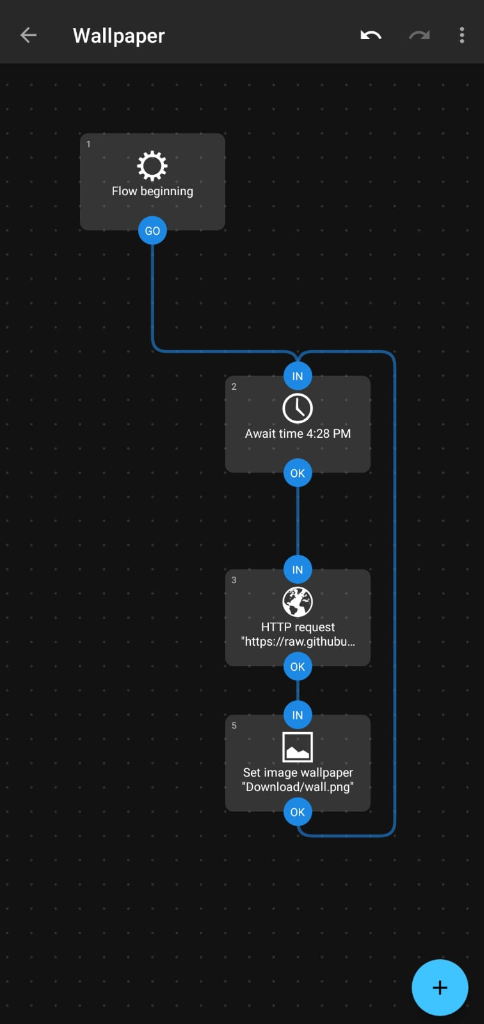
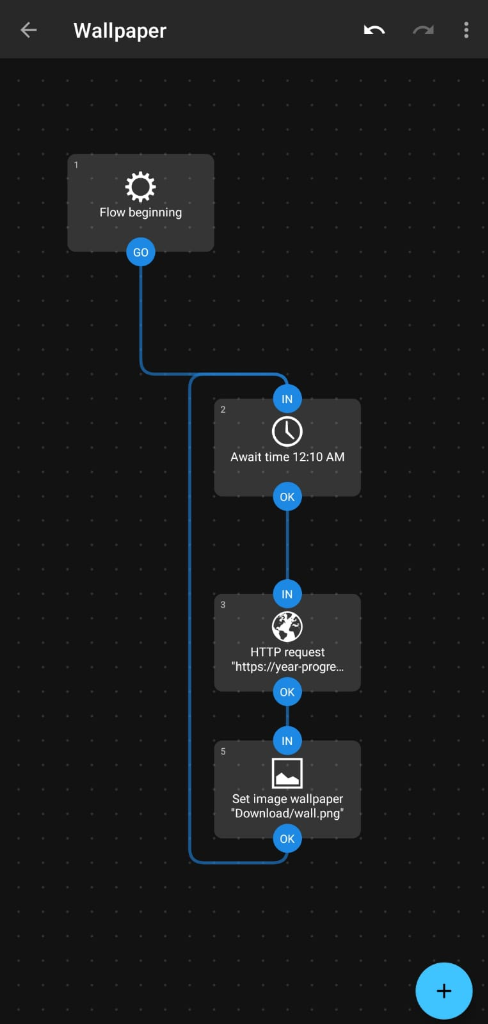
docs: update automate steps and add professional custom scrollbar for modal

diff --git a/index.html b/index.html
@@ -53,7 +53,7 @@
 
     <!-- Guide Modal -->
     <div id="guide-modal" class="modal hidden">
-        <div class="modal-content glass-card" style="max-height: 80vh; overflow-y: auto;">
+        <div class="modal-content glass-card">
             <button id="close-modal" class="close-btn">&times;</button>
             <h2 class="modal-title">Automation Guide</h2>
             <p class="modal-desc">Turn this into a live wallpaper that refreshes automatically using the free <strong>Automate</strong> app by LlamaLab.</p>
@@ -77,7 +77,7 @@
                     <div class="step-icon">3</div>
                     <div class="step-text">
                         <h3>Block 1: Await time</h3>
-                        <p>Tap the block to edit. Set the <strong>Time of day</strong> to <strong>00:10</strong> so it updates right after midnight.</p>
+                        <p>Tap the block to edit. Set the <strong>Time of day</strong> to <strong>12:10 AM</strong> so it updates right after midnight.</p>
                     </div>
                 </div>
                 <div class="step-card">
@@ -85,8 +85,10 @@
                     <div class="step-text">
                         <h3>Block 2: HTTP request</h3>
                         <p>Method: <strong>GET</strong><br>
-                        Request URL: <strong>Paste your copied link</strong><br>
-                        Scroll to <strong>Save response path</strong> and type: <code>Download/wall.png</code></p>
+                        Request URL: <strong>Paste the URL copied from this website here</strong><br>
+                        Request content type: <strong>JSON</strong><br>
+                        Save response in: <strong>Save to file</strong><br>
+                        Save response path: Type <code>Download/wall.png</code></p>
                     </div>
                 </div>
                 <div class="step-card">

diff --git a/style.css b/style.css
@@ -421,11 +421,29 @@ select option {
 }
 
 .modal-content {
-    width: 100%;
-    max-width: 600px;
     position: relative;
-    max-height: 90vh;
+    max-width: 600px;
+    width: 90%;
+    padding: 40px;
+    max-height: 80vh;
     overflow-y: auto;
+}
+
+/* Professional Custom Scrollbar */
+.modal-content::-webkit-scrollbar {
+    width: 8px;
+}
+.modal-content::-webkit-scrollbar-track {
+    background: rgba(0, 0, 0, 0.2);
+    border-radius: 10px;
+    margin: 10px 0;
+}
+.modal-content::-webkit-scrollbar-thumb {
+    background: rgba(255, 255, 255, 0.2);
+    border-radius: 10px;
+}
+.modal-content::-webkit-scrollbar-thumb:hover {
+    background: rgba(255, 255, 255, 0.35);
 }
 
 .close-btn {

diff --git a/README.md b/README.md
@@ -53,14 +53,16 @@ You can turn this API into a live wallpaper that refreshes automatically every s
 
 **Block 1: Await time**
 * Tap on the block to edit it.
-* Set the **Time of day** to `00:10` (so it updates 10 minutes past midnight).
+* Set the **Time of day** to `12:10 AM` (so it updates 10 minutes past midnight).
 
 **Block 2: HTTP request**
 * **Method**: `GET`
-* **Request URL**: `https://year-progress-kappa.vercel.app/api/wallpaper`
-* Scroll down to **Save response path** and type exactly: `Download/wall.png`
+* **Request URL**: Paste the Universal URL you copied from your website here.
+* **Request content type**: `JSON`
+* **Save response in**: `Save to file`
+* **Save response path**: Type exactly `Download/wall.png`
 
 **Block 3: Set image wallpaper**
-* **Image URI**: Type exactly: `Download/wall.png`
+* **Image URI**: Type exactly `Download/wall.png`
 
 Save the Flow, click **Start**, and enjoy your automated stoic wallpaper!
